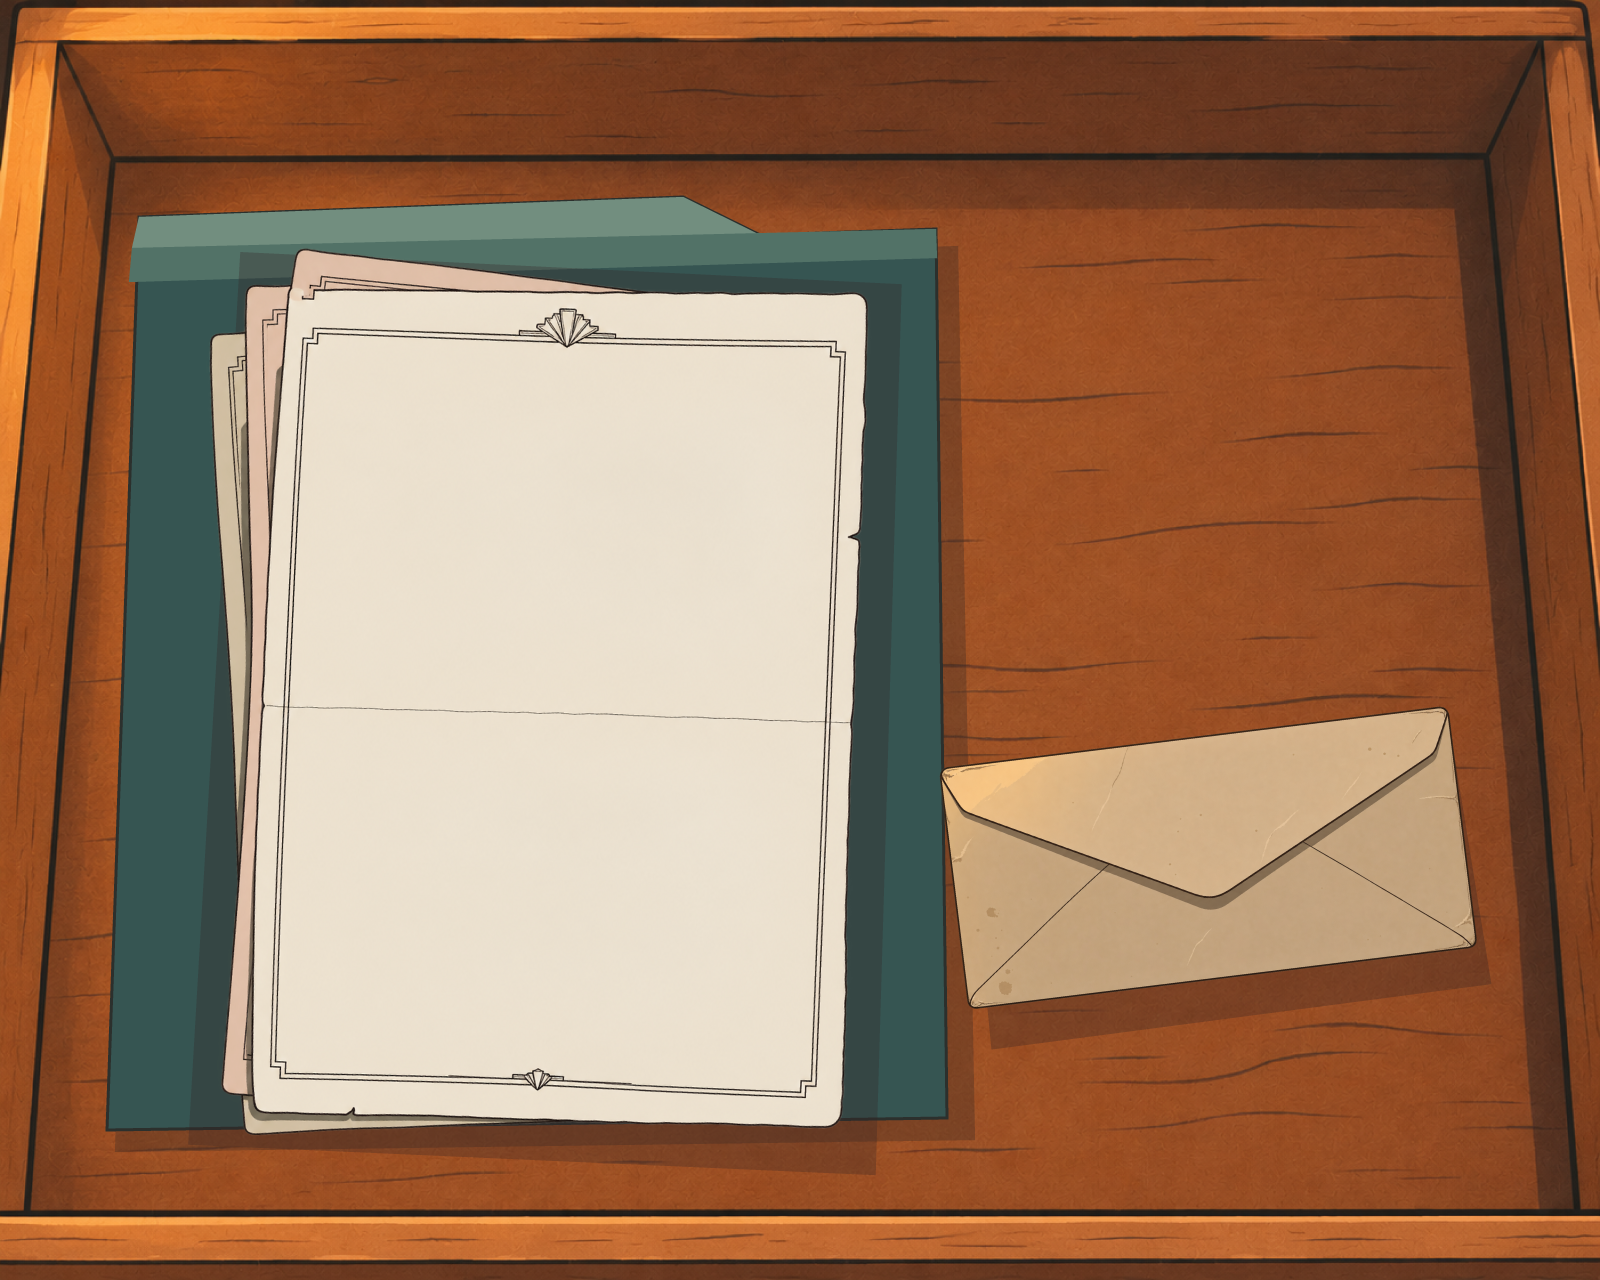
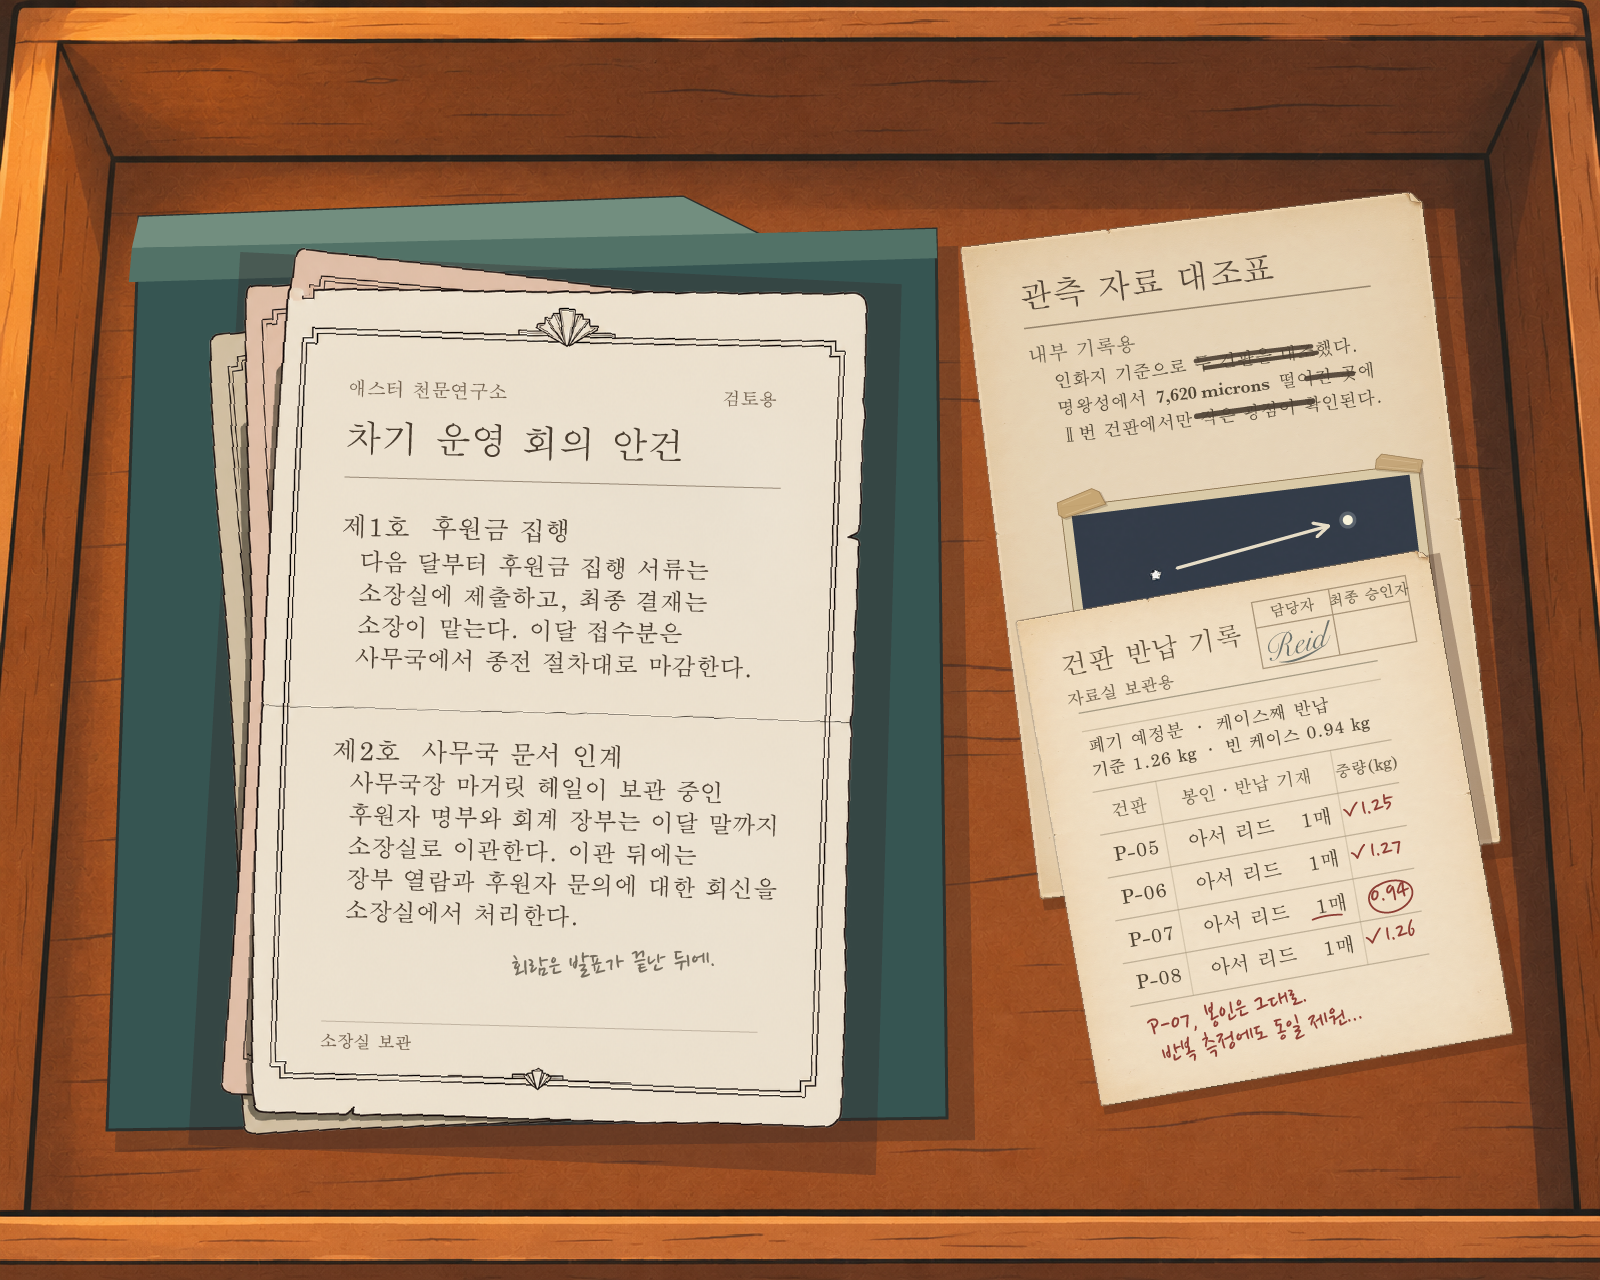
Publish the latest planetarium clue artwork

diff --git a/traces-of-guilt/case-data.js b/traces-of-guilt/case-data.js
@@ -26,7 +26,7 @@ export const caseFile = {
       title: "리허설 진행표",
       action: "진행표 확인하기",
       mapLabel: "진행표",
-      image: "planetarium/schedule.png",
+      image: "planetarium/schedule.png?v=clue-art-refresh",
       position: [12.7, 36.7],
       compactPosition: [12.7, 37.7]
     },
@@ -34,14 +34,14 @@ export const caseFile = {
       title: "투영기 조작대",
       action: "조작대 확인하기",
       mapLabel: "조작대",
-      image: "planetarium/console.png",
+      image: "planetarium/console.png?v=clue-art-refresh",
       position: [2.25, 68.5]
     },
     {
       title: "리허설 사진",
       action: "리허설 사진 보기",
       mapLabel: "사진",
-      image: "planetarium/photo.png",
+      image: "planetarium/photo.png?v=clue-art-refresh",
       position: [96, 70.5],
       compactPosition: [98.5, 70.5],
       align: "end"
@@ -59,7 +59,7 @@ export const caseFile = {
       title: "연구소장실 서랍",
       action: "서랍 확인하기",
       mapLabel: "서랍",
-      image: "planetarium/drawer.png",
+      image: "planetarium/drawer.png?v=clue-art-refresh",
       position: [72, 25.3],
       compactPosition: [94, 11.4],
       align: "end"
@@ -93,24 +93,24 @@ export const caseFile = {
     video: {
       // Add the edited MP4 as src and, if available, Korean WebVTT as captions.
       src: "",
-      poster: "planetarium/photo.png"
+      poster: "planetarium/photo.png?v=clue-art-refresh"
     },
     stepsTitle: "장면별 해설 예시",
     steps: [
       {
-        image: "planetarium/schedule.png",
+        image: "planetarium/schedule.png?v=clue-art-refresh",
         alt: "나무 게시판에 집게로 고정한 진행표",
         title: "리허설 진행표",
         text: "진행표에는 리허설의 예정 순서와 시간을 기록해요."
       },
       {
-        image: "planetarium/photo.png",
+        image: "planetarium/photo.png?v=clue-art-refresh",
         alt: "별이 비친 천장 앞에 투영기의 검은 윤곽이 보이는 사진",
         title: "기자의 리허설 사진",
         text: "기자의 카메라에 당시 투영 화면이 담겼어요."
       },
       {
-        image: "planetarium/console.png",
+        image: "planetarium/console.png?v=clue-art-refresh",
         alt: "원형 계기판 세 개와 오른쪽의 긴 손잡이가 달린 조작대",
         title: "투영기 조작대",
         text: "조작대에서 리허설에 사용한 손잡이와 스위치를 살펴볼 수 있어요."

diff --git a/traces-of-guilt/index.html b/traces-of-guilt/index.html
@@ -9,7 +9,7 @@
   <title>Traces of Guilt</title>
   <link rel="canonical" href="https://iontail.github.io/traces-of-guilt/">
   <link rel="stylesheet" href="style.css?v=page-headings">
-  <script src="game.js?v=rehearsal-slide-handoff" type="module"></script>
+  <script src="game.js?v=clue-art-refresh" type="module"></script>
 </head>
 <body>
   <svg class="icon-definitions" aria-hidden="true" xmlns="http://www.w3.org/2000/svg">

diff --git a/traces-of-guilt/game.js b/traces-of-guilt/game.js
@@ -1,4 +1,4 @@
-import { caseFile } from "./case-data.js?v=rehearsal-slide-handoff";
+import { caseFile } from "./case-data.js?v=clue-art-refresh";
 
 const entrance = document.querySelector(".entrance");
 const enterButton = entrance.querySelector(".enter-room");
